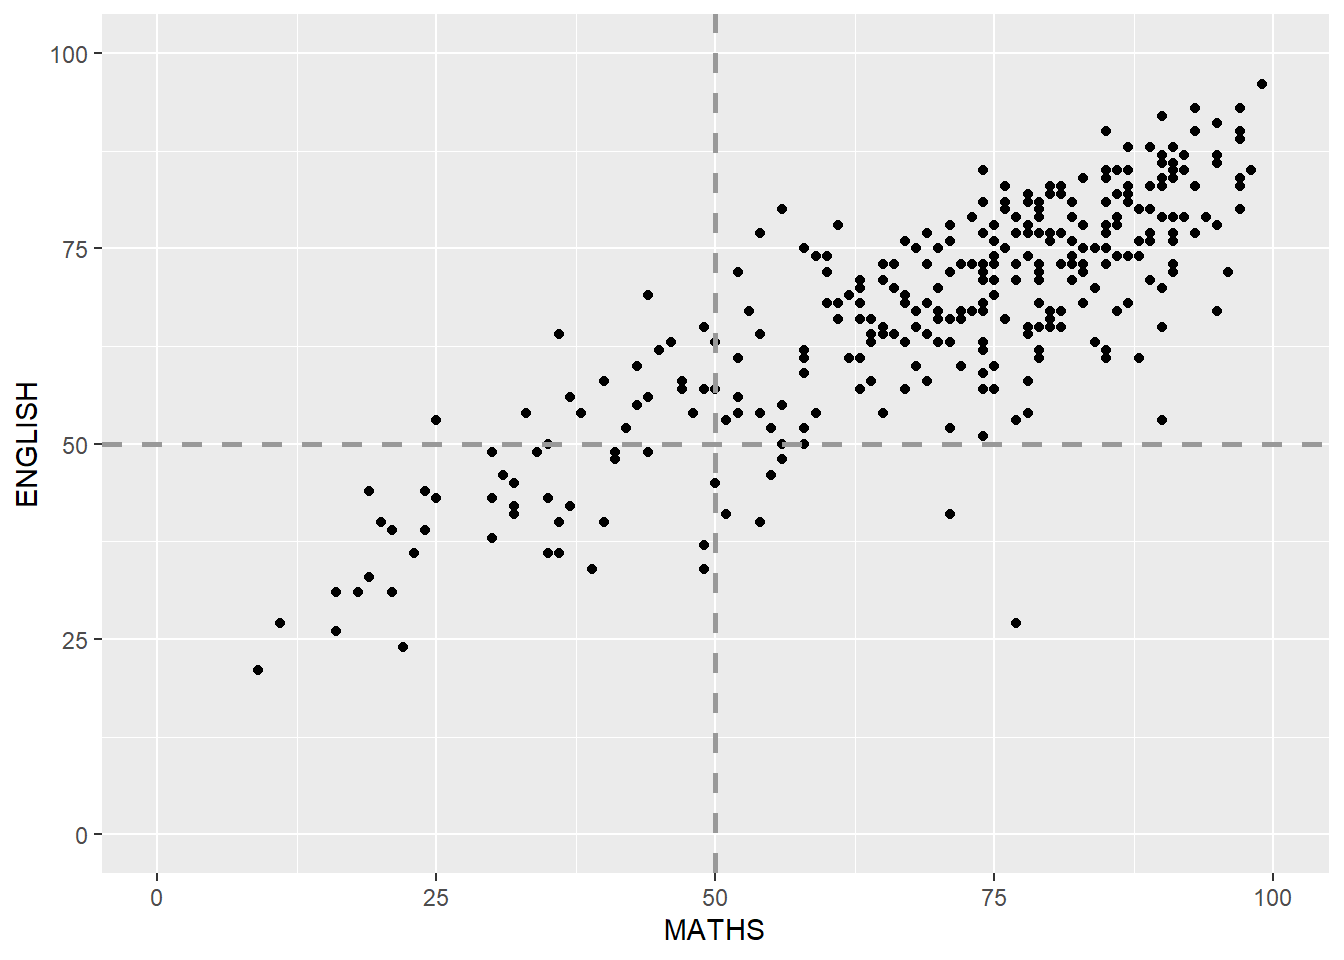
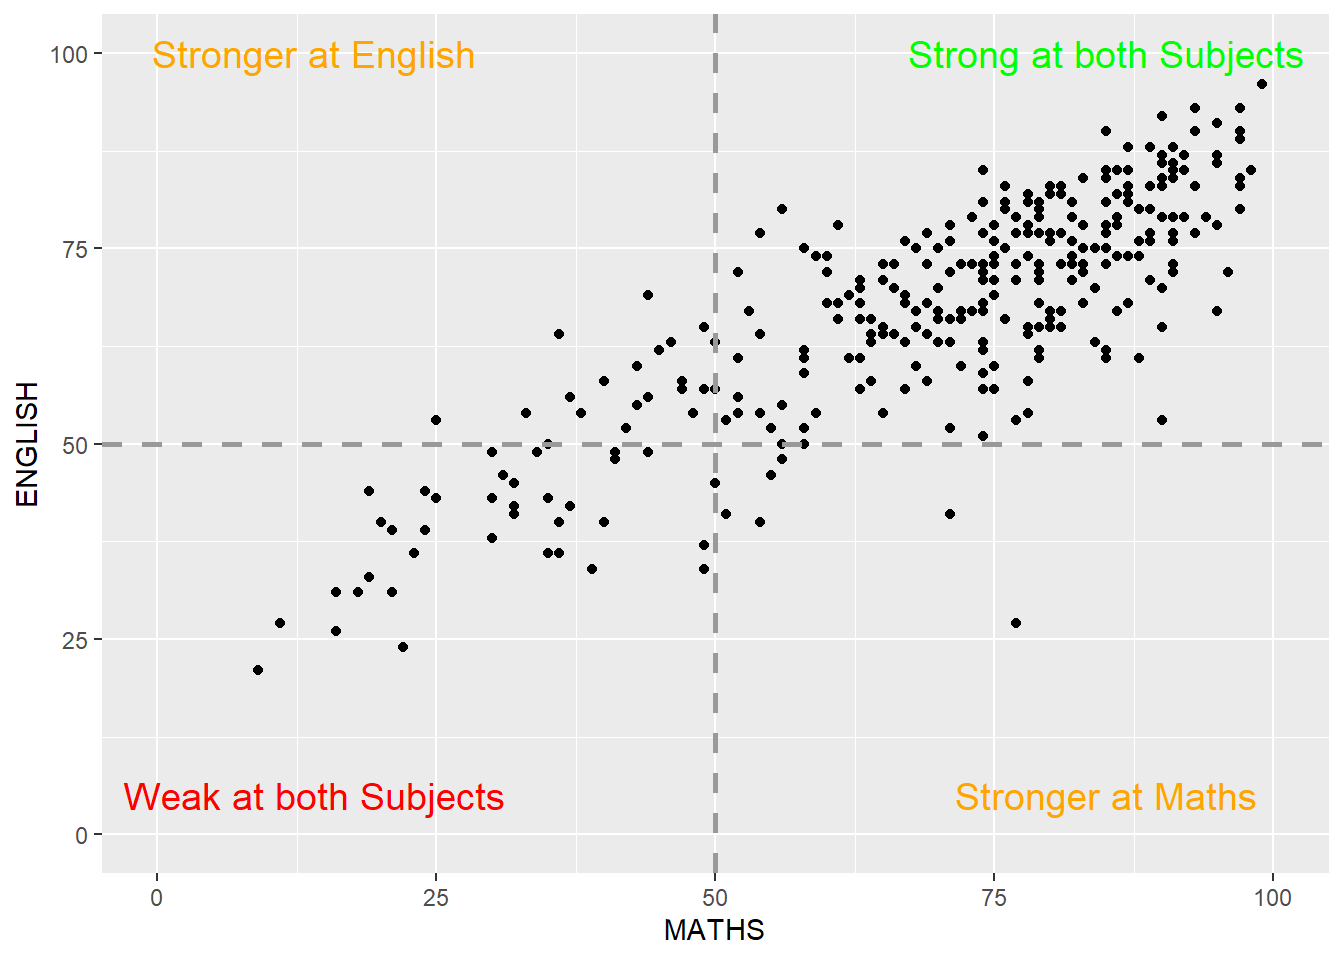
Commit changes to In-class Ex01

diff --git a/_site/In-class_Ex/In-class_Ex01/In-class_Ex01.html b/_site/In-class_Ex/In-class_Ex01/In-class_Ex01.html
@@ -195,6 +195,7 @@ code span.wa { color: #60a0b0; font-weight: bold; font-style: italic; } /* Warni
   <ul class="collapse">
   <li><a href="#installing-and-launching-r-packages" id="toc-installing-and-launching-r-packages" class="nav-link" data-scroll-target="#installing-and-launching-r-packages">Installing and launching R packages</a></li>
   <li><a href="#importing-the-data" id="toc-importing-the-data" class="nav-link" data-scroll-target="#importing-the-data">Importing the data</a></li>
+  <li><a href="#about-the-data" id="toc-about-the-data" class="nav-link" data-scroll-target="#about-the-data">About the data</a></li>
   </ul></li>
   <li><a href="#plotting-a-simple-horizontal-bar-chart" id="toc-plotting-a-simple-horizontal-bar-chart" class="nav-link" data-scroll-target="#plotting-a-simple-horizontal-bar-chart">Plotting a simple horizontal bar chart</a></li>
   <li><a href="#designing-data-drive-graphics-for-analysis-i" id="toc-designing-data-drive-graphics-for-analysis-i" class="nav-link" data-scroll-target="#designing-data-drive-graphics-for-analysis-i">Designing Data-drive Graphics for Analysis I</a>
@@ -273,6 +274,10 @@ code span.wa { color: #60a0b0; font-weight: bold; font-style: italic; } /* Warni
 </details>
 </div>
 </section>
+<section id="about-the-data" class="level2">
+<h2 class="anchored" data-anchor-id="about-the-data">About the data</h2>
+<p>The data in question is exam data for primary 3 students for the subjects: English, Maths and Science. In addition, the class and gender of each student is given.</p>
+</section>
 </section>
 <section id="plotting-a-simple-horizontal-bar-chart" class="level1">
 <h1>Plotting a simple horizontal bar chart</h1>
@@ -315,8 +320,8 @@ code span.wa { color: #60a0b0; font-weight: bold; font-style: italic; } /* Warni
 <p>Critique of this histogram:</p>
 <ol type="1">
 <li>y-aixs label is not clear (i.e.&nbsp;count).</li>
-<li>The bars are notsorted by their resepctive frequencies.</li>
-<li>For static graph, frequency values should be added to provide addition information.</li>
+<li>The bars are not sorted by their respective frequencie (i.e.&nbsp;ascending or descending order)</li>
+<li>For static graphs, additional information should be provided to each bar to allow the reader to get a better sense of the data at one glance.</li>
 </ol>
 </section>
 <section id="the-makeover-design" class="level2">
@@ -471,7 +476,7 @@ code span.wa { color: #60a0b0; font-weight: bold; font-style: italic; } /* Warni
 <span id="cb13-10"><a href="#cb13-10" aria-hidden="true" tabindex="-1"></a>  <span class="fu">geom_vline</span>(<span class="at">xintercept=</span><span class="dv">50</span>, </span>
 <span id="cb13-11"><a href="#cb13-11" aria-hidden="true" tabindex="-1"></a>             <span class="at">linetype=</span><span class="st">"dashed"</span>,</span>
 <span id="cb13-12"><a href="#cb13-12" aria-hidden="true" tabindex="-1"></a>             <span class="at">color=</span><span class="st">"grey60"</span>,</span>
-<span id="cb13-13"><a href="#cb13-13" aria-hidden="true" tabindex="-1"></a>             <span class="at">size=</span><span class="dv">1</span>)</span></code><button title="Copy to Clipboard" class="code-copy-button"><i class="bi"></i></button></pre></div>
+<span id="cb13-13"><a href="#cb13-13" aria-hidden="true" tabindex="-1"></a>             <span class="at">size=</span><span class="dv">1</span>) <span class="sc">+</span> <span class="fu">annotate</span>(<span class="st">"text"</span>, <span class="at">x=</span><span class="dv">14</span>, <span class="at">y=</span><span class="dv">5</span>, <span class="at">label=</span><span class="st">"Weak at both Subjects"</span>, <span class="at">angle=</span><span class="dv">0</span>, <span class="at">size=</span><span class="dv">5</span>, <span class="at">color=</span><span class="st">"red"</span>) <span class="sc">+</span> <span class="fu">annotate</span>(<span class="st">"text"</span>, <span class="at">x=</span><span class="dv">85</span>, <span class="at">y=</span><span class="dv">100</span>, <span class="at">label=</span><span class="st">"Strong at both Subjects"</span>, <span class="at">angle=</span><span class="dv">0</span>, <span class="at">size=</span><span class="dv">5</span>, <span class="at">color=</span><span class="st">"green"</span>) <span class="sc">+</span> <span class="fu">annotate</span>(<span class="st">"text"</span>, <span class="at">x=</span><span class="dv">85</span>, <span class="at">y=</span><span class="dv">5</span>, <span class="at">label=</span><span class="st">"Stronger at Maths"</span>, <span class="at">angle=</span><span class="dv">0</span>, <span class="at">size=</span><span class="dv">5</span>, <span class="at">color=</span><span class="st">"orange"</span>) <span class="sc">+</span> <span class="fu">annotate</span>(<span class="st">"text"</span>, <span class="at">x=</span><span class="dv">14</span>, <span class="at">y=</span><span class="dv">100</span>, <span class="at">label=</span><span class="st">"Stronger at English"</span>, <span class="at">angle=</span><span class="dv">0</span>, <span class="at">size=</span><span class="dv">5</span>, <span class="at">color=</span><span class="st">"orange"</span>)</span></code><button title="Copy to Clipboard" class="code-copy-button"><i class="bi"></i></button></pre></div>
 </details>
 <div class="cell-output-display">
 <p><img src="In-class_Ex01_files/figure-html/unnamed-chunk-11-1.png" class="img-fluid" width="672"></p>
